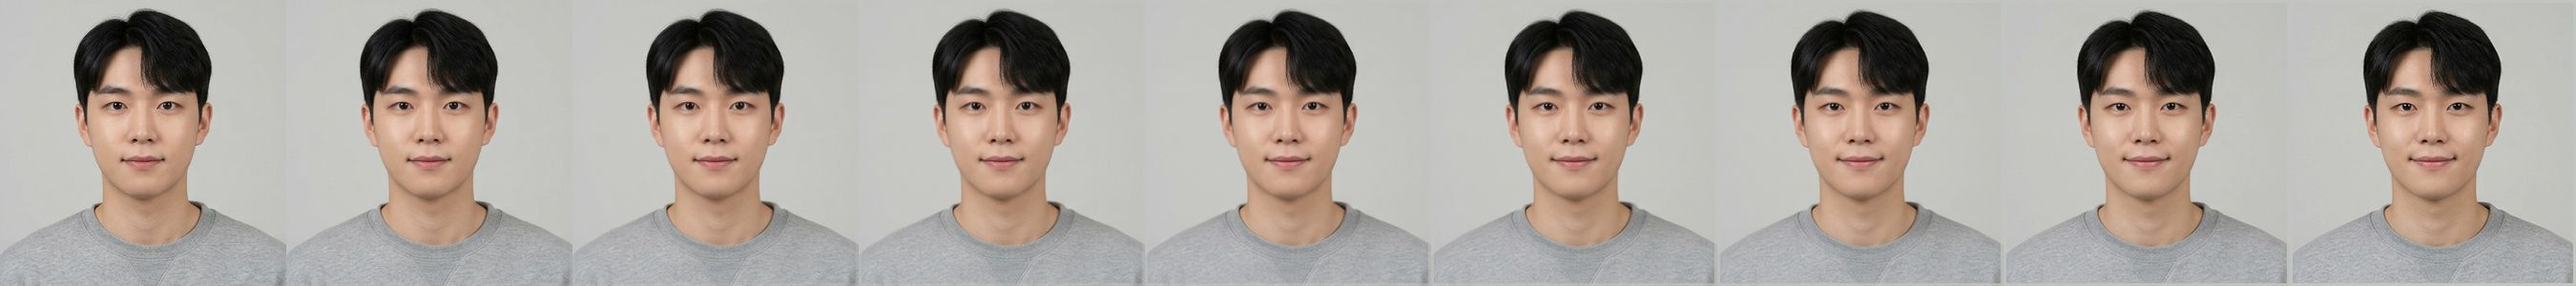
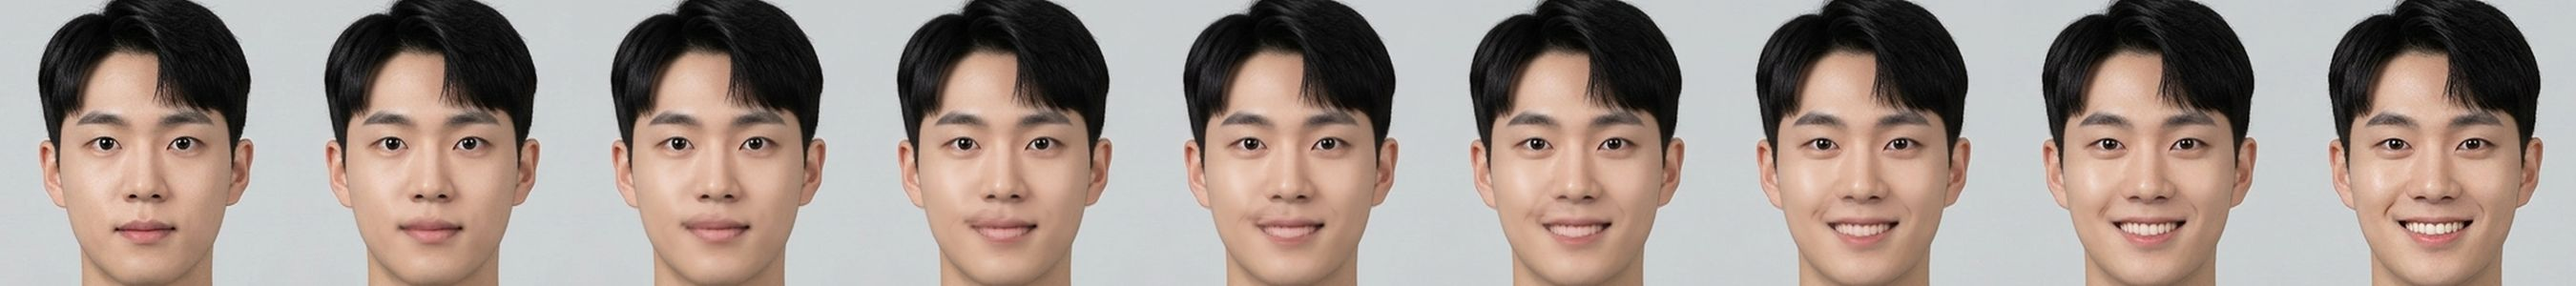
feat(lietome): make the liking lab set harder with nine broad smiles
All nine faces now smile broadly; only the eye area and the onset speed
differ between liking and fake liking, and both stay visible for the
same total time.

diff --git a/lietome/lab/like/index.html b/lietome/lab/like/index.html
@@ -36,7 +36,7 @@
 <body>
 <main>
   <h1>호감으로 반응한 사람은?</h1>
-  <p class="guide">말을 걸면 아홉 명이 반응합니다. 호감으로 반응했다고 생각하는 사람을 모두 고르세요. 여러 번 말을 걸어도 됩니다.</p>
+  <p class="guide">말을 걸면 아홉 명이 모두 웃습니다. 그중 진짜 호감으로 웃는 사람을 모두 고르세요. 여러 번 말을 걸어도 됩니다.</p>
   <p class="say" id="say" aria-live="polite"></p>
   <div class="grid" id="grid"></div>
   <div class="bar">
@@ -47,11 +47,11 @@
   <p class="note">시안입니다. 얼굴은 모두 AI로 만든 가상의 인물입니다.</p>
 </main>
 <script>
-// 화면에 놓인 순서대로의 반응 종류. G 호감, F 거짓 호감, O 그 밖.
-const KIND = ['F', 'G', 'F', 'O', 'F', 'G', 'G', 'O', 'F'];
-// 80ms 단위의 (나타남, 머묾, 사라짐) 길이. 호감은 천천히, 거짓 호감은 갑자기.
-const DYN = { G: [6, 9, 6], F: [2, 6, 2], O: [3, 7, 3] };
-const LABEL = { G: '호감', F: '거짓 호감', O: '그 밖' };
+// 화면에 놓인 순서대로의 반응 종류. G 호감, F 거짓 호감.
+const KIND = ['F', 'G', 'F', 'F', 'G', 'F', 'G', 'F', 'G'];
+// 80ms 단위의 (나타남, 머묾, 사라짐) 길이. 전체 길이는 같고, 호감은 천천히 번지며 거짓 호감은 갑자기 나타난다.
+const DYN = { G: [5, 8, 5], F: [2, 14, 2] };
+const LABEL = { G: '호감', F: '거짓 호감' };
 const STEP = 80;
 const FRAMES = 9;
 
